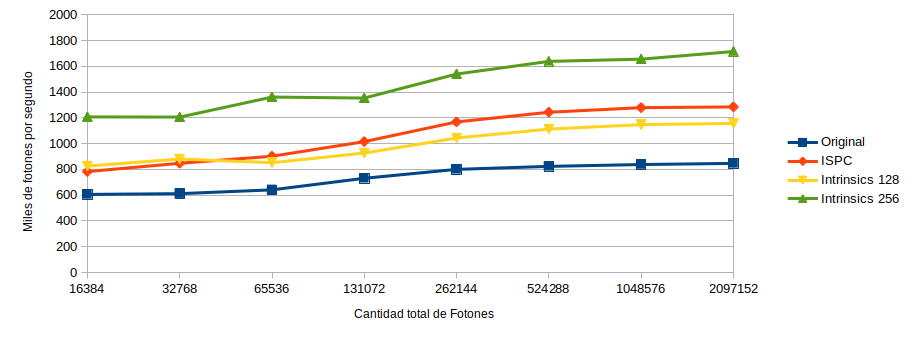
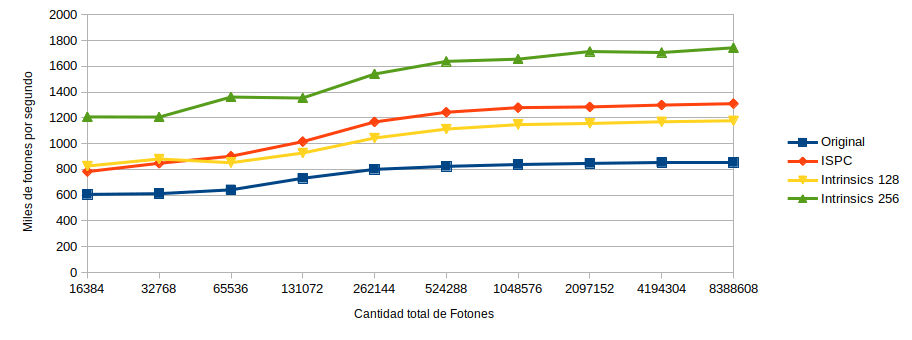
fixup! Agrego datos del servidor

diff --git a/README.md b/README.md
@@ -82,6 +82,8 @@ Una de las primeras mediciones que realizamos fue modificar el tamaño del probl
 | 524288              | 823,566     | 1243,558 | 1113,042       | 1638,288       |
 | 1048576             | 837,790     | 1279,144 | 1147,236       | 1655,496       |
 | 2097152             | 846,529     | 1284,745 | 1156,730       | 1714,668       |
+| 4194304             | 853,212     | 1299,156 | 1169,585       | 1706,935       |
+| 8388608             | 853,789     | 1309,938 | 1177,384       | 1743,716       |
 
 Podemos ver que la cantidad de fotones procesados tiene una cierta influencia en la eficiencia del programa, llegando a un valor máximo cuando se superan los 
 cien mil fotones. Dado que este fenómeno afecta a todas las versiones de la misma manera, de ahora en adelante utilizaremos el valor 131072 como la cantidad de fotones 
